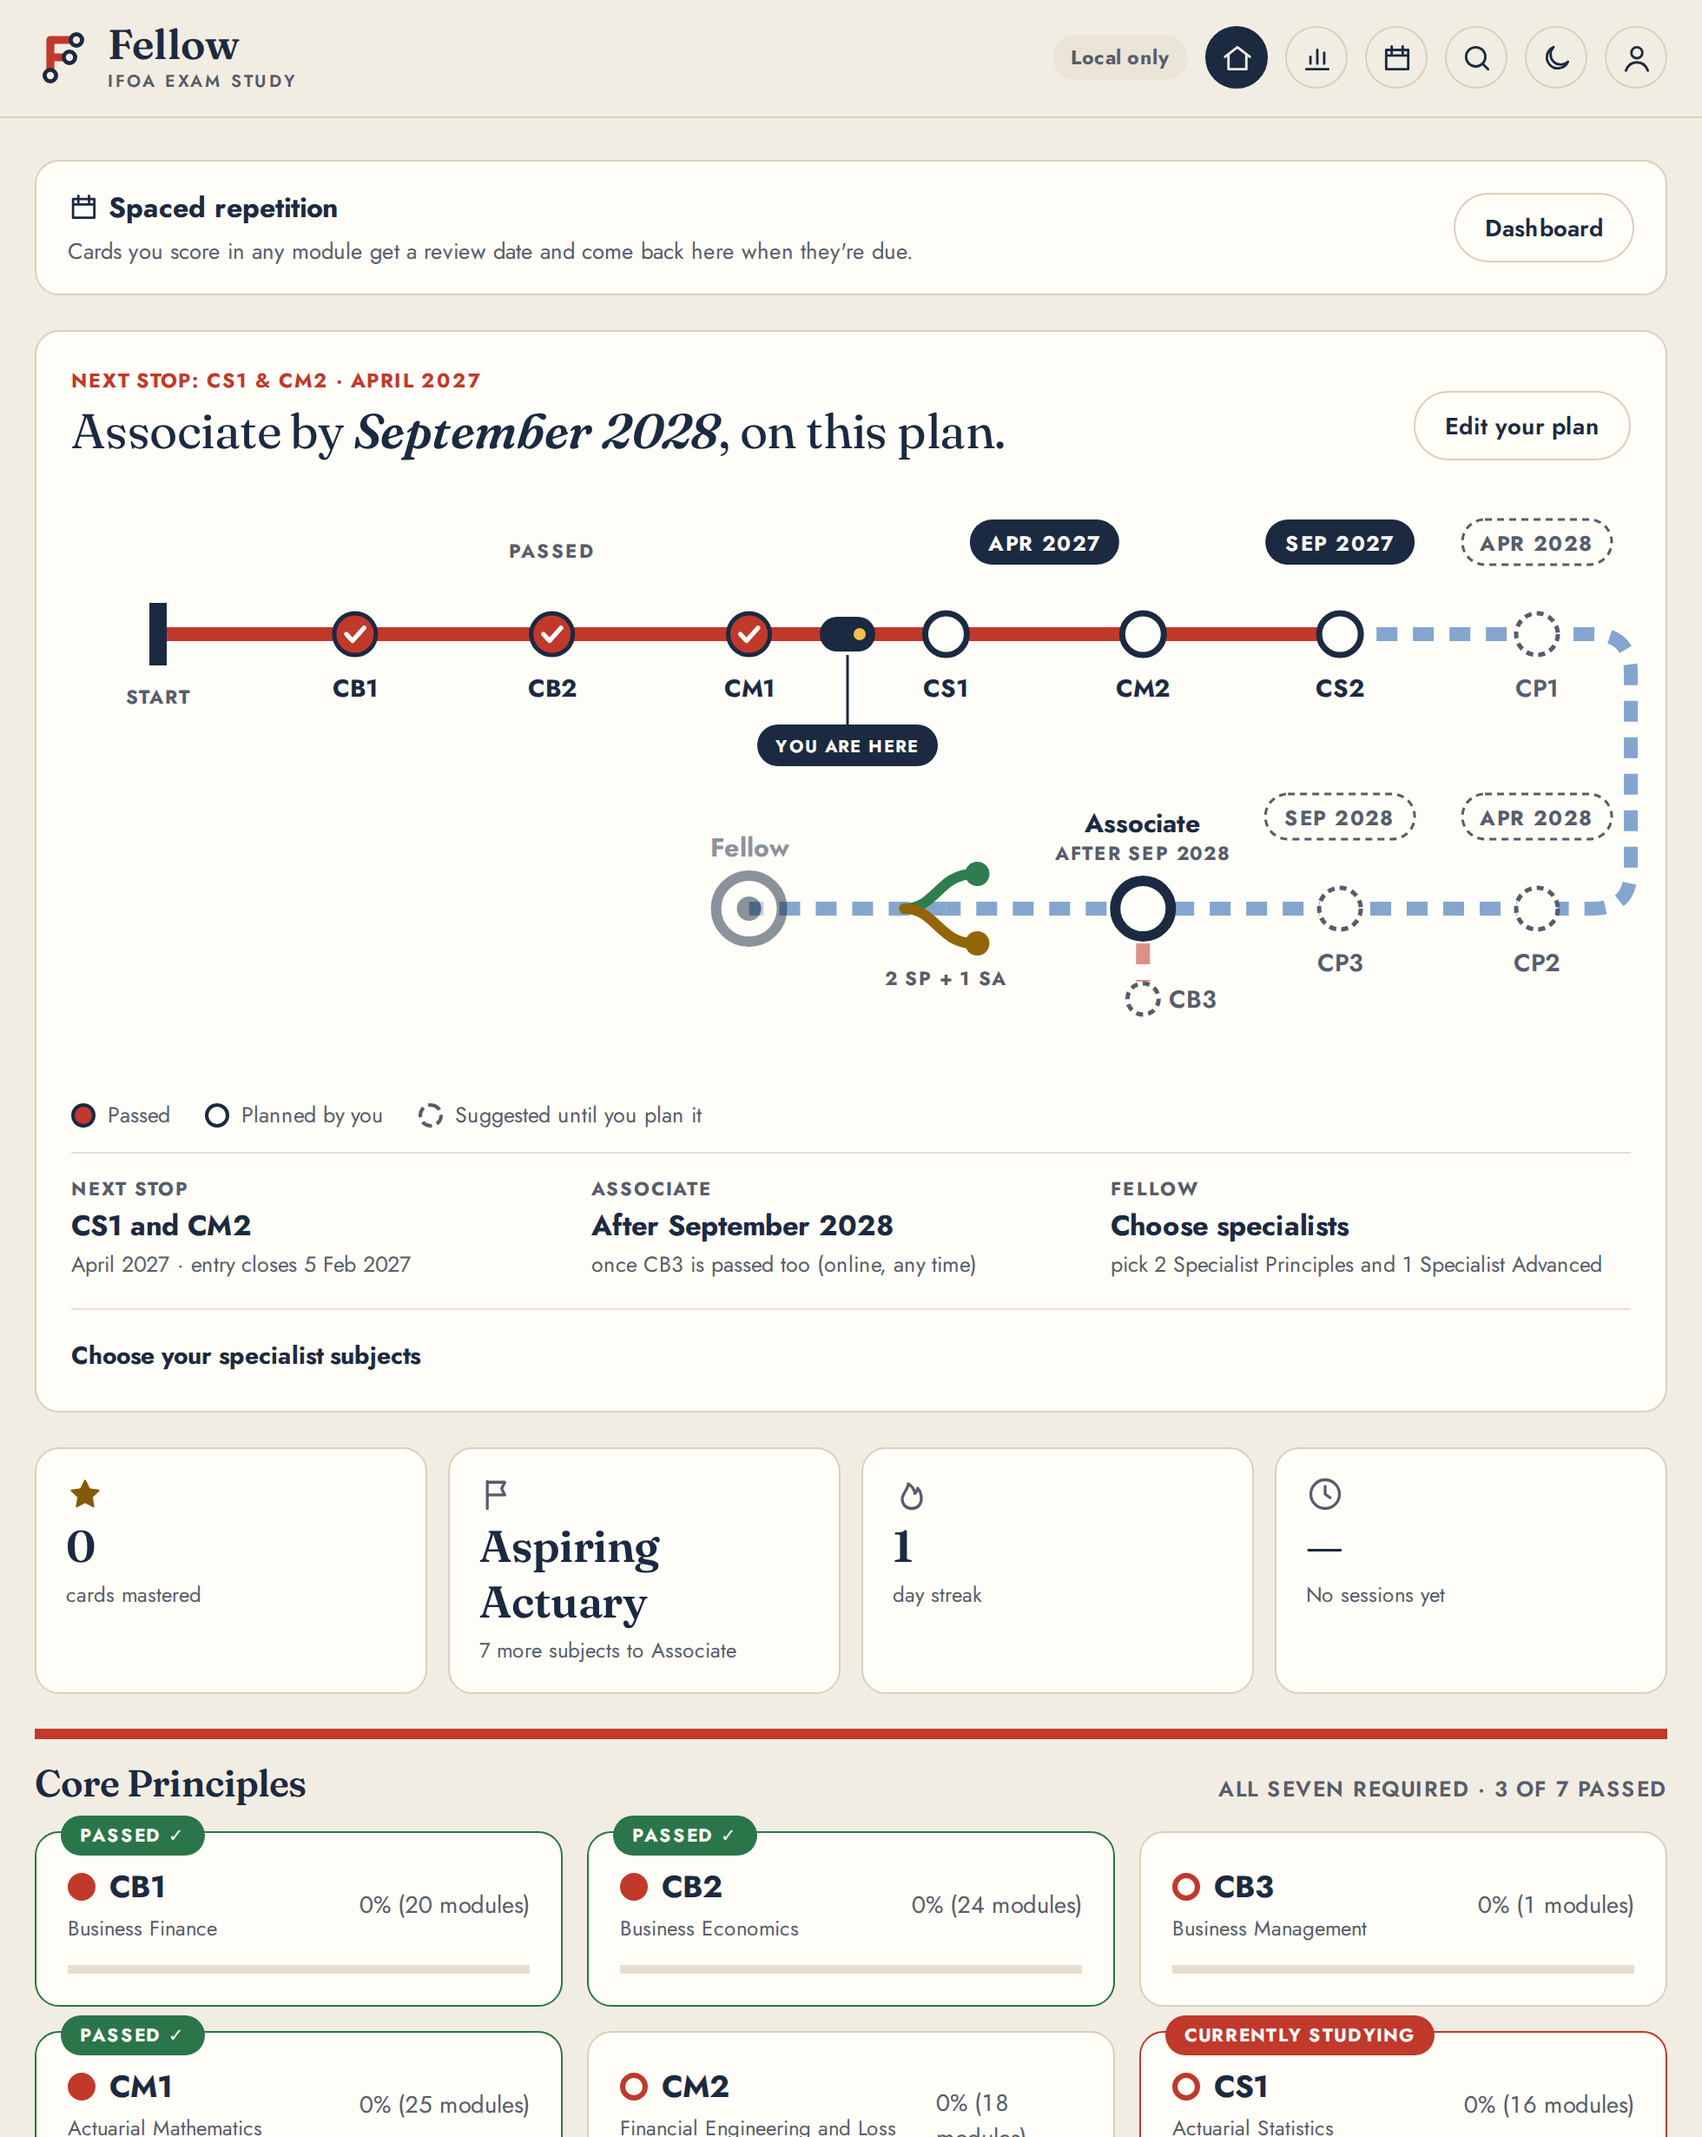
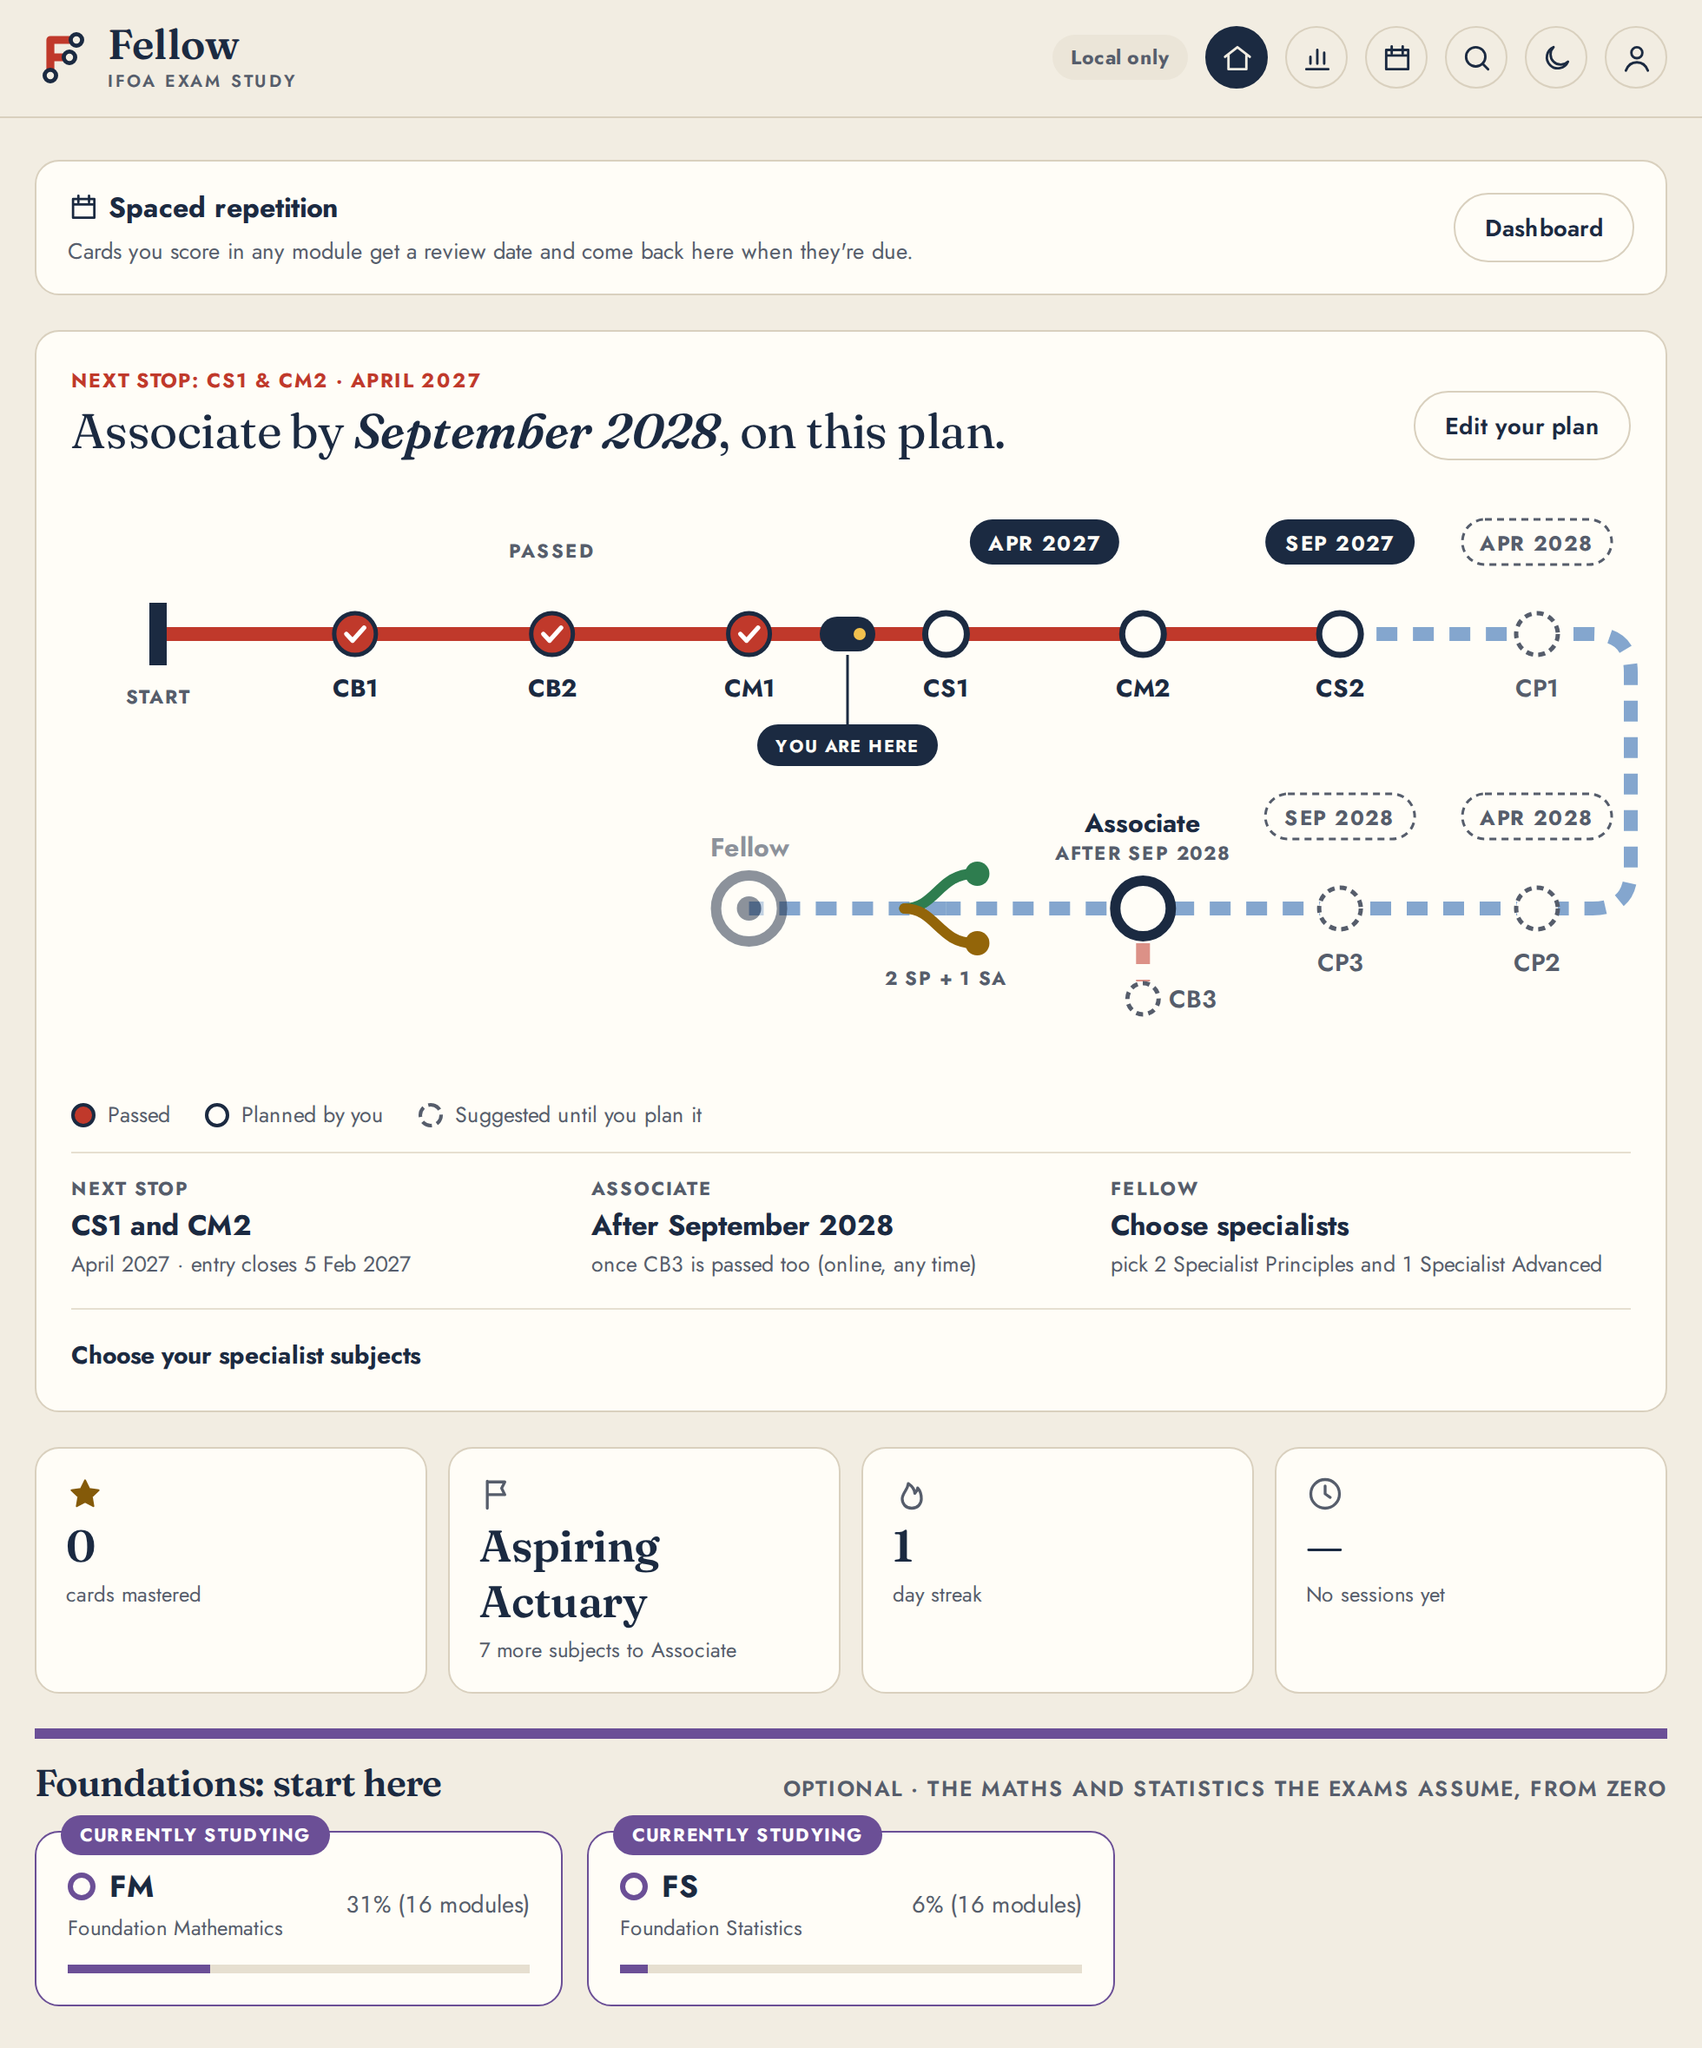
Retake the README screenshot with the Foundations group
Claude-Session: https://claude.ai/code/session_0143YXgBrg7SM1ioBrR9JWd7

diff --git a/README.md b/README.md
@@ -6,7 +6,7 @@
 
 No install, no sign-up required — just open the link.
 
-![The home page: a transit-map route from three passed subjects through planned and suggested sittings to Associate, with a fork to Fellow waiting on the choice of specialist subjects](.github/readme-assets/progress-screenshot.png)
+![The home page: a transit-map route from three passed subjects through planned and suggested sittings to Associate, with a fork to Fellow waiting on the choice of specialist subjects, and below it the Foundations group with Foundation Mathematics and Foundation Statistics in progress](.github/readme-assets/progress-screenshot.png)
 
 ## What's here
 
